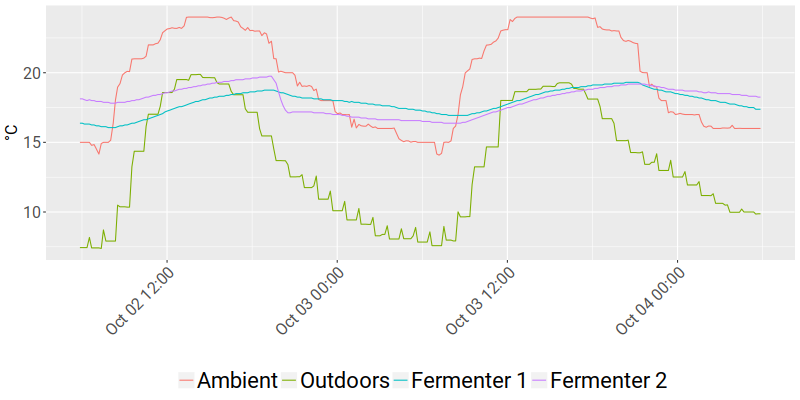
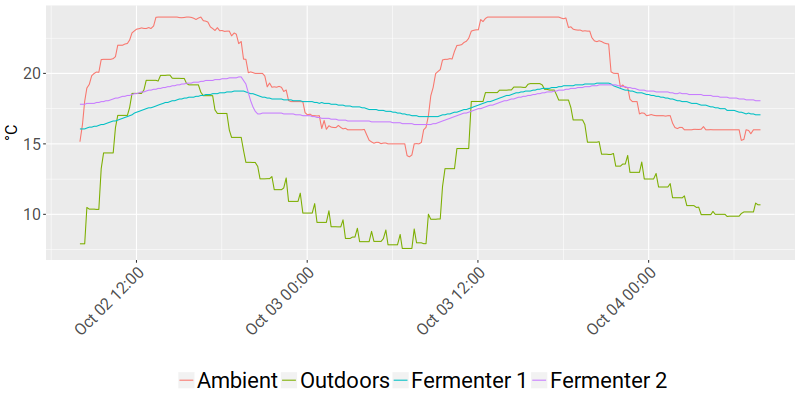
Update live temperature on site

diff --git a/temperature.js b/temperature.js
@@ -1,1 +1,1 @@
-document.write("<h4>Inside Temperature: 16.0°C</h4><h4>Outside Temperature: 9.87°C</h4><h4>Fermenter 1 Temperature: 17.38°C</h4><h4>Fermenter 2 Temperature: 18.25°C</h4><h4>Inside Humidity: 59.69%</h4><h4>Outside Humidity: 91.0%</h4><br>Last update: 2017-10-04 05:50:55");
+document.write("<h4>Inside Temperature: 16.0°C</h4><h4>Outside Temperature: 10.68°C</h4><h4>Fermenter 1 Temperature: 17.06°C</h4><h4>Fermenter 2 Temperature: 18.06°C</h4><h4>Inside Humidity: 59.23%</h4><h4>Outside Humidity: 88.0%</h4><br>Last update: 2017-10-04 07:51:42");
